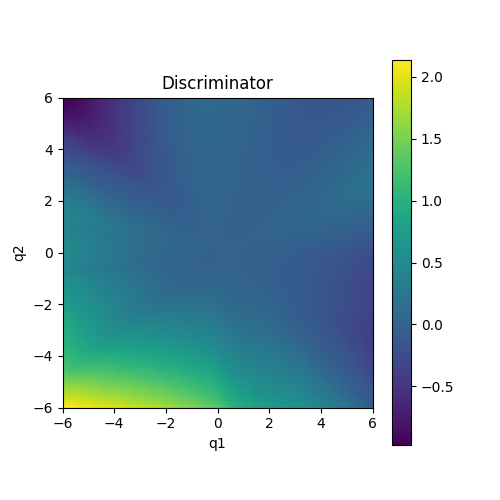
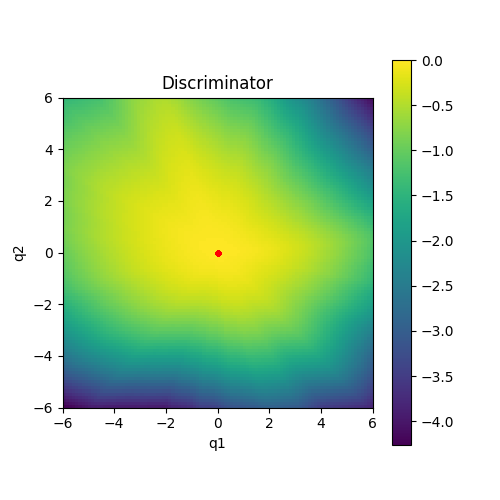
ring5 runs

diff --git a/tasks/sample_with_hmc_logistic_regression.py b/tasks/sample_with_hmc_logistic_regression.py
@@ -1,0 +1,67 @@
+from pathlib import Path
+
+import jax
+import jax.numpy as jnp
+import numpy as np
+import pymc3 as pm
+from absl import app, logging
+from ml_collections import config_flags
+
+# from sampling.metrics import ess
+from sklearn.datasets import fetch_openml
+
+from config import load_cfgs
+from logistic_regression import (
+    grad_log_posterior,
+    hamiltonian_logistic_regression,
+    normalize_covariates,
+    plot_logistic_regression_samples,
+)
+from sampling import hmc
+
+_TASK_FILE = config_flags.DEFINE_config_file("task", default="config/config.py")
+
+
+def main(_):
+    cfg = load_cfgs(_TASK_FILE)
+    cfg.figure_path.mkdir(parents=True, exist_ok=True)
+
+    heart_data = fetch_openml(name="heart", version=1)
+    X_data = heart_data.data.toarray()
+    X_data = normalize_covariates(X_data)
+    X = jnp.concatenate([X_data, jnp.ones((X_data.shape[0], 1))], axis=1)
+    t = heart_data.target
+
+    density = lambda x: hamiltonian_logistic_regression(
+        x, t, X, cov=jnp.eye(X.shape[1]) * 100, cov_p=jnp.eye(X.shape[1])
+    )
+    grad_potential_fn = lambda x: grad_log_posterior(x, t, X, jnp.eye(X.shape[1]) * 100)
+
+    samples, ar = hmc(
+        density=density,
+        grad_potential_fn=grad_potential_fn,
+        cov_p=jnp.eye(X.shape[1]),
+        d=X.shape[1],
+        parallel_chains=cfg.sample.num_parallel_chains,
+        num_steps=cfg.hmc.num_steps,
+        step_size=cfg.hmc.step_size,
+        n=cfg.sample.num_iterations,
+        burn_in=cfg.sample.burn_in,
+        rng=jax.random.PRNGKey(cfg.seed),
+    )
+
+    logging.info(f"Acceptance rate: {ar}")
+    for i in range(X.shape[1]):
+        logging.info(f"ESS for w_{i}: {pm.ess(np.array(samples[:, i]))}")
+
+    for i in range(X.shape[1] - 1):
+        plot_logistic_regression_samples(
+            samples,
+            i=i,
+            j=i + 1,
+            name=cfg.figure_path / Path(f"samples_logistic_regression_{i}.png"),
+        )
+
+
+if __name__ == "__main__":
+    app.run(main)

diff --git a/logistic_regression/densities copy.py b/logistic_regression/densities copy.py
@@ -4,7 +4,7 @@ from jax import grad
 
 
 def sigmoid(x):
-    return 1 / (1 + jnp.exp(-x) + 1e-6)
+    return 1 / (1 + jnp.exp(-x) + 1e-7)
 
 
 def cond_log_likelihood(t, X, w):
@@ -13,15 +13,13 @@ def cond_log_likelihood(t, X, w):
 
 def log_prior(w, cov):
     d = w.shape[0]
-    return (
-        -0.5
-        * jnp.dot(jnp.dot(w.T, jnp.linalg.inv(cov)), w)
-        * jnp.log(1 / jnp.sqrt(2 * (jnp.pi**d) * jnp.linalg.det(cov)))
+    return -0.5 * jnp.dot(jnp.dot(w.T, jnp.linalg.inv(cov)), w) + jnp.log(
+        1 / jnp.sqrt(2 * (jnp.pi**d) * jnp.linalg.det(cov))
     )
 
 
 def log_posterior(w, t, X, cov):
-    return cond_log_likelihood(t, X, w) + log_prior(w, cov)
+    return -cond_log_likelihood(t, X, w) - log_prior(w, cov)
 
 
 vmap_log_posterior = jax.vmap(log_posterior, in_axes=(0, None, None, None))
@@ -51,9 +49,14 @@ def hamiltonian_logistic_regression(w, t, X, posterior_cov):
     )
 
 
-# X_data = jax.random.normal(jax.random.PRNGKey(1), (100, 14))
-# X = jnp.concatenate([X_data, jnp.ones((X_data.shape[0], 1))], axis=1)
-# w = jax.random.normal(jax.random.PRNGKey(0), (50, 30))
-# t = jax.random.bernoulli(jax.random.PRNGKey(1), p=0.5, shape=(100, 1))
+# from sklearn.datasets import fetch_openml
 
-# hamiltonian_logistic_regression(w, t, X, posterior_cov=jnp.eye(15))
+# # Fetch the heart dataset
+# heart_data = fetch_openml(name='heart', version=1)
+# X_data = heart_data.data.toarray()
+# X_data = normalize_covariates(X_data)
+# X = jnp.concatenate([X_data, jnp.ones((X_data.shape[0], 1))], axis=1)
+# t = heart_data.target
+
+# cond_log_likelihood(t, X, jnp.ones(X.shape[1]))
+# assert True

diff --git a/logistic_regression/densities.py b/logistic_regression/densities.py
@@ -1,0 +1,54 @@
+import jax
+import jax.numpy as jnp
+from jax import grad
+
+
+def sigmoid(x):
+    return 1 / (1 + jnp.exp(-x) + 1e-7)
+
+
+def cond_log_likelihood(t, X, w):
+    return jnp.sum(t * jnp.log(sigmoid(X @ w)) + (1 - t) * jnp.log(1 - sigmoid(X @ w)))
+
+
+def log_prior(w, cov):
+    d = w.shape[0]
+    return -0.5 * w.T @ jnp.linalg.inv(cov) @ w + jnp.log(
+        1 / jnp.sqrt(((2 * jnp.pi) ** d) * jnp.linalg.det(cov))
+    )
+
+
+def log_posterior(w, t, X, cov):
+    return cond_log_likelihood(t, X, w) + log_prior(w, cov)
+
+
+def normalize_covariates(X):
+    return (X - X.mean(axis=0)) / X.std(axis=0)
+
+
+vmap_log_posterior = jax.vmap(log_posterior, in_axes=(0, None, None, None))
+grad_log_posterior = jax.vmap(grad(log_posterior), in_axes=(0, None, None, None))
+
+
+def K(w, cov):
+    return -0.5 * w @ jnp.linalg.inv(cov) @ w.T
+
+
+vmap_K = jax.vmap(K, in_axes=(0, None))
+
+
+def hamiltonian_logistic_regression(w, t, X, cov, cov_p):
+    d = w.shape[1] // 2
+    return -vmap_log_posterior(w[:, :d], t, X, cov) + vmap_K(w[:, d:], cov_p)
+
+
+# Fetch the heart dataset
+# from sklearn.datasets import fetch_openml
+# heart_data = fetch_openml(name='heart', version=1)
+# X_data = heart_data.data.toarray()
+# X_data = normalize_covariates(X_data)
+# X = jnp.concatenate([X_data, jnp.ones((X_data.shape[0], 1))], axis=1)
+# t = heart_data.target
+# w = jax.random.normal(jax.random.PRNGKey(0), (10, 2 * X.shape[1]))
+
+# assert True

diff --git a/tasks/train_logistic_regression.py b/tasks/train_logistic_regression.py
@@ -1,0 +1,36 @@
+import os
+
+from absl import app
+from ml_collections import config_flags
+
+import densities
+import wandb
+from config import load_cfgs
+from trainers import Trainer
+
+_TASK_FILE = config_flags.DEFINE_config_file("task", default="config/config.py")
+
+
+def main(_):
+    cfg = load_cfgs(_TASK_FILE)
+    cfg.figure_path.mkdir(parents=True, exist_ok=True)
+    cfg.checkpoint_dir.mkdir(parents=True, exist_ok=True)
+
+    wandb.init(project=cfg.wandb.project, entity=cfg.wandb.entity, config=cfg)
+
+    density = getattr(densities, cfg.target_density.name)
+
+    trainer = Trainer(
+        cfg=cfg,
+        density=density,
+        wandb_log=cfg.wandb.use,
+        checkpoint_dir=cfg.checkpoint_dir,
+        checkpoint_name=cfg.checkpoint_name,
+        seed=cfg.seed,
+    )
+
+    trainer.train_model()
+
+
+if __name__ == "__main__":
+    app.run(main)

diff --git a/tasks/sample_with_learned_kernel.py b/tasks/sample_with_learned_kernel.py
@@ -46,15 +46,15 @@ def main(_):
 
     plot_discriminator(
         discriminator_fn,
-        xlim_q=6,
-        ylim_q=6,
-        xlim_p=6,
-        ylim_p=6,
+        xlim_q=3,
+        ylim_q=3,
+        xlim_p=3,
+        ylim_p=3,
         n=100,
         x_0=jnp.array([0.0, 0.0]),
         p_0=0.0,
         p_1=0.0,
-        name=cfg.figure_path / Path("discriminator.png"),
+        name=cfg.figure_path / Path("discriminator"),
     )
 
     kernel = create_henon_flow(
@@ -68,10 +68,10 @@ def main(_):
 
     plot_hamiltonian_density(
         density,
-        xlim_q=6,
-        ylim_q=6,
-        xlim_p=6,
-        ylim_p=6,
+        xlim_q=3,
+        ylim_q=3,
+        xlim_p=3,
+        ylim_p=3,
         n=100,
         q_0=0.0,
         q_1=0.0,

diff --git a/config/config.py b/config/config.py
@@ -76,13 +76,13 @@ def get_config(mode: Literal["train", "sample"] = None):
         cfg.sample = ConfigDict()
         cfg.sample.d = 2
         cfg.sample.num_parallel_chains = 1
-        cfg.sample.num_iterations = 5000  # after burn-in
+        cfg.sample.num_iterations = 10000  # after burn-in
         cfg.sample.burn_in = 1000
 
         # HMC
         cfg.hmc = ConfigDict()
         cfg.hmc.potential_function_name = "ring5"
-        cfg.hmc.num_steps = 10
-        cfg.hmc.step_size = 0.1
+        cfg.hmc.num_steps = 40
+        cfg.hmc.step_size = 0.02
 
     return cfg

diff --git a/discriminator_models/utils.py b/discriminator_models/utils.py
@@ -39,6 +39,7 @@ def plot_discriminator(
 
     fig, ax = plt.subplots(1, 1, figsize=(5, 5))
     im = ax.imshow(ar, extent=(-xlim_q, xlim_q, -ylim_q, ylim_q), origin="lower", cmap="viridis")
+    ax.scatter(x_0[:, 0], x_0[:, 1], c="red", s=10.0)
     ax.set_title("Discriminator")
     ax.set_xlabel("q1")
     ax.set_ylabel("q2")

diff --git a/logistic_regression/utils.py b/logistic_regression/utils.py
@@ -1,0 +1,9 @@
+import matplotlib.pyplot as plt
+
+
+def plot_logistic_regression_samples(samples, i, j, name=None, **kwargs):
+    plt.figure(figsize=(10, 10))
+    plt.scatter(samples[:, i], samples[:, j], s=1, **kwargs)
+    if name is not None:
+        plt.savefig(name)
+    plt.close()

diff --git a/logistic_regression/__init__.py b/logistic_regression/__init__.py
@@ -1,5 +1,6 @@
-from logistic_regression.logistic_regression import (
+from logistic_regression.densities import (
     grad_log_posterior,
     hamiltonian_logistic_regression,
     normalize_covariates,
 )
+from logistic_regression.utils import plot_logistic_regression_samples
